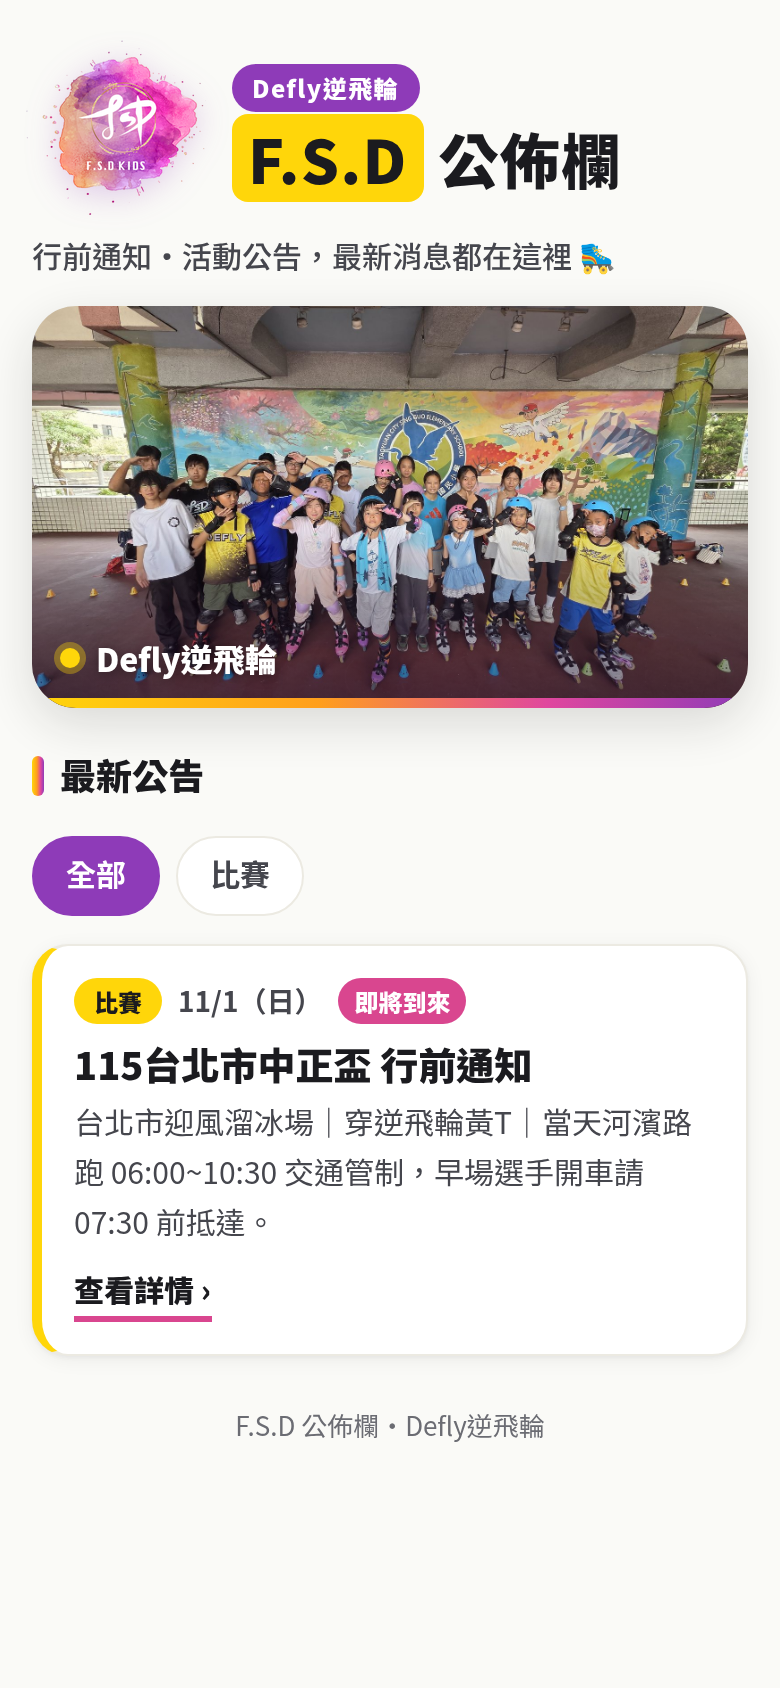
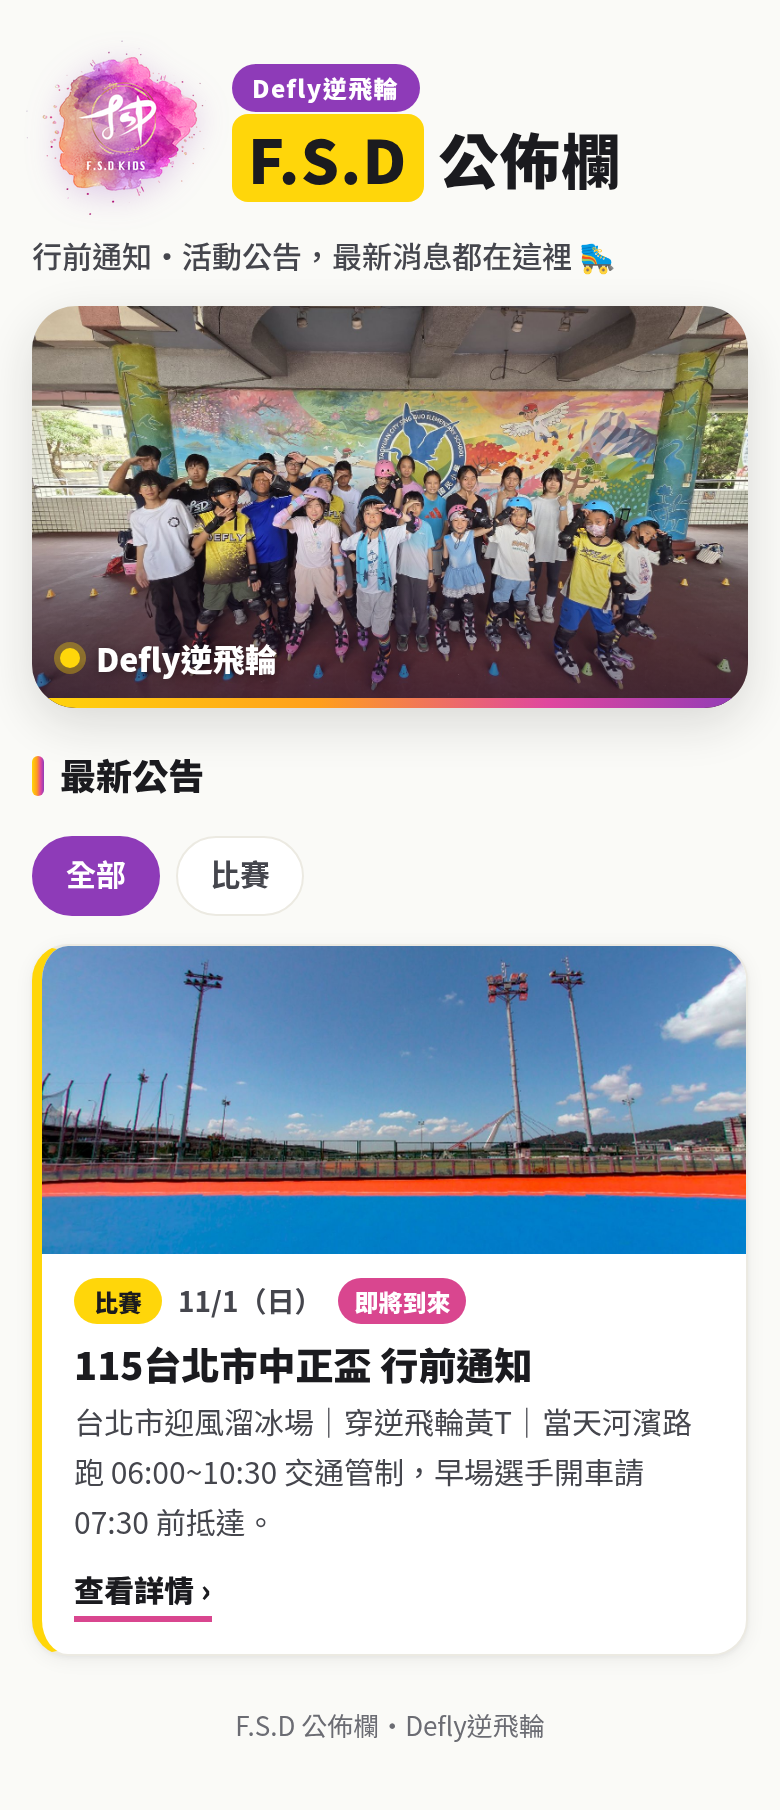
Update F.S.D 公佈欄

diff --git a/index.html b/index.html
@@ -37,7 +37,8 @@
   <h2 class="sec-h">最新公告</h2>
   <nav class="filters" aria-label="分類篩選"><button type="button" data-f="" aria-pressed="true">全部</button><button type="button" data-f="比賽" aria-pressed="false">比賽</button></nav>
   <div class="list" id="list">
-    <a class="item 比賽" href="notices/2026-11-01-zhongzheng-cup.html" data-cat="比賽" data-date="2026-11-01">
+    <a class="item 比賽 has-img" href="notices/2026-11-01-zhongzheng-cup.html" data-cat="比賽" data-date="2026-11-01">
+      <span class="thumb"><img src="assets/venue-yingfeng.jpg" alt="迎風溜冰場" loading="lazy"></span>
       <div class="row"><span class="cat 比賽">比賽</span><time datetime="2026-11-01">11/1（日）</time></div>
       <h2>115台北市中正盃 行前通知</h2>
       <p>台北市迎風溜冰場｜穿逆飛輪黃T｜當天河濱路跑 06:00~10:30 交通管制，早場選手開車請 07:30 前抵達。</p>

diff --git a/assets/style.css b/assets/style.css
@@ -170,3 +170,11 @@ footer{text-align:center;color:var(--muted);font-size:13px;padding:24px 0 8px}
 .site-head{padding:16px 0 4px;gap:10px}
 .site-head img{width:96px;height:96px;margin-left:-6px}
 .tagline{margin:0 0 12px;color:var(--ink2);font-weight:500;font-size:15px}
+/* notice banner photo + home card thumbnails */
+.photo.venue{margin:0 0 4px}
+.credit{margin:4px 4px 0;font-size:11px;color:var(--muted);text-align:right}
+.credit a{color:inherit}
+.item.has-img{padding-top:0;overflow:hidden}
+.item .thumb{display:block;margin:0 -16px 12px -16px;aspect-ratio:16/7;overflow:hidden;background:#eee}
+.item .thumb img{display:block;width:100%;height:100%;object-fit:cover}
+.item .thumb img{object-position:center 80%}

diff --git a/notices/2026-11-01-zhongzheng-cup.html b/notices/2026-11-01-zhongzheng-cup.html
@@ -39,6 +39,10 @@
       <span class="pill">📍 台北市迎風溜冰場</span>
     </div>
   </div>
+  <!--BANNER-->
+  <figure class="photo venue"><img src="../assets/venue-yingfeng.jpg" alt="迎風溜冰場" width="1600" height="900"><figcaption><i></i>迎風溜冰場</figcaption><span class="bar"></span></figure>
+  <p class="credit"><a href="https://vbs.sports.taipei/venues/?K=386" target="_blank" rel="noopener">照片來源：臺北市政府體育局 場館設施管理系統</a></p>
+  <!--/BANNER-->
 
   <!-- 交通管制：最緊急，放最上面 -->
   <section class="warn" aria-labelledby="traffic">

diff --git a/templates/notice-template.html b/templates/notice-template.html
@@ -39,6 +39,7 @@
       <span class="pill">📍 台北市迎風溜冰場</span>
     </div>
   </div>
+  <!--BANNER--><!--/BANNER-->
 
   <!-- 交通管制：最緊急，放最上面 -->
   <section class="warn" aria-labelledby="traffic">

diff --git a/build.py b/build.py
@@ -18,7 +18,11 @@ for n in items:
 
 def esc(s): return html.escape(s, quote=True)
 
-cards = "\n".join(f'''    <a class="item {esc(n["category"])}" href="{esc(n["url"])}" data-cat="{esc(n["category"])}" data-date="{esc(n["date"])}">
+def thumb(n):
+    if not n.get("image"): return ""
+    return f'<span class="thumb"><img src="{esc(n["image"])}" alt="{esc(n.get("image_caption",""))}" loading="lazy"></span>'
+cards = "\n".join(f'''    <a class="item {esc(n["category"])}{" has-img" if n.get("image") else ""}" href="{esc(n["url"])}" data-cat="{esc(n["category"])}" data-date="{esc(n["date"])}">
+      {thumb(n)}
       <div class="row"><span class="cat {esc(n["category"])}">{esc(n["category"])}</span><time datetime="{esc(n["date"])}">{esc(n.get("display_date") or n["date"])}</time></div>
       <h2>{esc(n["title"])}</h2>
       <p>{esc(n["summary"])}</p>
@@ -105,6 +109,23 @@ if BASE:
         tag = f'<meta property="og:url" content="{esc(BASE)}/{esc(n["url"])}"><!--OG_ABS-->'
         s = re.sub(r'(<meta property="og:url"[^>]*>)?<!--OG_ABS-->', tag, s, count=1)
         p.write_text(s, encoding="utf-8")
+# per-notice banner image (between <!--BANNER--> and <!--/BANNER--> in each notice page)
+for n in items:
+    p = ROOT / n["url"]
+    if not p.exists(): continue
+    t = p.read_text(encoding="utf-8")
+    block = ""
+    if n.get("image"):
+        cr = esc(n.get("image_credit", ""))
+        if n.get("image_credit_url"):
+            cr = f'<a href="{esc(n["image_credit_url"])}" target="_blank" rel="noopener">{cr}</a>'
+        cap = esc(n.get("image_caption", ""))
+        block = (f'\n  <figure class="photo venue"><img src="../{esc(n["image"])}" alt="{cap}" width="1600" height="900">'
+                 f'<figcaption><i></i>{cap}</figcaption><span class="bar"></span></figure>'
+                 + (f'\n  <p class="credit">{cr}</p>' if cr else "") + "\n  ")
+    t = re.sub(r"<!--BANNER-->.*?<!--/BANNER-->", lambda m: "<!--BANNER-->" + block + "<!--/BANNER-->", t, flags=re.S)
+    p.write_text(t, encoding="utf-8")
+
 if BASE:
     for f in [ROOT / "index.html"] + sorted((ROOT / "notices").glob("*.html")):
         t = f.read_text(encoding="utf-8")

diff --git a/README.md b/README.md
@@ -30,6 +30,8 @@ deploy-github-pages.sh     第一次發布到 GitHub Pages
      "posted": "2026-12-01"
    }
    ```
+   （選填）封面照片：再加 `"image": "assets/xxx.jpg"`、`"image_caption": "圖說"`、`"image_credit": "照片來源：…"`、`"image_credit_url": "https://…"`。
+   build.py 會把照片放進公告頁的 `<!--BANNER--><!--/BANNER-->` 位置（範本已有），首頁卡片也會顯示縮圖。照片請先縮到約 1600px 寬、350 KB 以下。
    分類 `category` 可用：比賽、活動、公告（有對應顏色；其他文字也可，會用黃色）。首頁自動依日期新→舊排序，
    已過日期的會變淡，最近一則未來公告會標「即將到來」。
 4. 重建首頁並發布：
